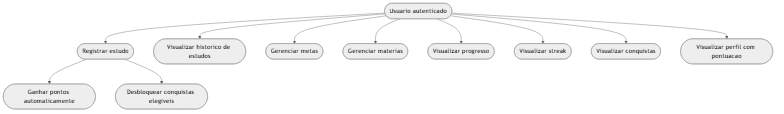
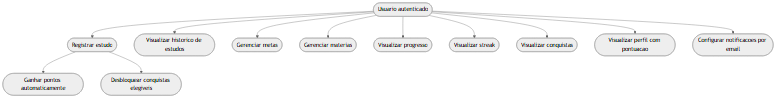
docs: atualizar documentacao e diagramas para estado atual

diff --git a/README.md b/README.md
@@ -1,1 +1,38 @@
-# xp-diario
+# XP Diario
+
+Aplicacao web para organizar estudos, registrar atividades e acompanhar evolucao com metas, streak, pontuacao e conquistas.
+
+## Estrutura
+
+- `backend/`: API Express + PostgreSQL
+- `frontend/`: telas HTML/CSS/JS servidas pelo backend
+- `docs/`: documentacao funcional e diagramas
+
+## Como executar
+
+1. Configure `backend/.env`.
+2. Instale dependencias:
+   - `cd backend`
+   - `npm install`
+3. Inicie a API:
+   - `npm start`
+4. Acesse:
+   - `http://localhost:3000`
+
+## Endpoints principais
+
+- `POST /api/login`
+- `POST /api/cadastro`
+- `GET|POST|PUT|DELETE /api/materias` (sem autenticacao no estado atual)
+- `GET|POST|PUT|DELETE /api/metas` (autenticado)
+- `GET|POST /api/atividades` (autenticado)
+- `GET /api/streak` (autenticado)
+- `GET /api/progresso` (autenticado)
+- `GET /api/conquistas` (autenticado)
+- `GET /api/perfil` (autenticado)
+- `GET|PUT /api/notificacoes` (autenticado)
+
+## Observacoes de vigencia
+
+- A referencia oficial de regras de negocio esta em `docs/`.
+- Arquivos PNG/JPEG em `docs/` podem ficar defasados em relacao ao texto Markdown/Mermaid.

diff --git a/docs/ARTEFATOS_VISUAIS_ATUALIZADOS.md b/docs/ARTEFATOS_VISUAIS_ATUALIZADOS.md
@@ -4,6 +4,7 @@ Este arquivo consolida o estado real do codigo backend apos as historias de:
 
 - conquistas automaticas por usuario
 - pontuacao acumulativa por estudo
+- notificacoes de lembrete por email
 
 ## DER vigente (texto fonte)
 
@@ -57,9 +58,20 @@ erDiagram
         TIMESTAMP uc_desbloqueado_em
     }
 
+    NOTIFICACOES_CONFIG {
+        INT nc_id PK
+        INT nc_usuario_id FK
+        BOOLEAN nc_ativo
+        TIME nc_horario
+        VARCHAR nc_fuso_horario
+        DATE nc_ultimo_envio
+        TIMESTAMP nc_atualizado_em
+    }
+
     USUARIOS ||--o{ META : possui
     USUARIOS ||--o{ ATIVIDADE : registra
     USUARIOS ||--o{ USUARIO_CONQUISTA : desbloqueia
+    USUARIOS ||--o| NOTIFICACOES_CONFIG : configura
     CONQUISTA ||--o{ USUARIO_CONQUISTA : referencia
     DISCIPLINA ||--o{ META : organiza
     DISCIPLINA ||--o{ ATIVIDADE : recebe

diff --git a/docs/DIAGRAMAS_TELAS_USUARIO_FINAL.md b/docs/DIAGRAMAS_TELAS_USUARIO_FINAL.md
@@ -15,6 +15,7 @@ flowchart TD
     G --> I[Atualizar pontos]
     G --> J[Recalcular conquistas]
     F --> K[Consultar perfil]
+    F --> L[Configurar notificacoes de lembrete]
 ```
 
 ## Diagrama 2 - Sequencia do registro de estudo
@@ -41,4 +42,14 @@ flowchart LR
     A[GET /api/perfil] --> B[Validar JWT]
     B --> C[Buscar usuario]
     C --> D[Retornar us_pontos_total]
+```
+
+## Diagrama 4 - Consulta de streak (estado atual da resposta)
+
+```mermaid
+flowchart LR
+    A[GET /api/streak] --> B[Validar JWT]
+    B --> C[Buscar datas em atividade por usuario]
+    C --> D[Calcular streak atual]
+    D --> E[Retornar streak + total_registros + dias_registrados]
 ```

diff --git a/docs/SPRINT_TELAS_USUARIO_FINAL.md b/docs/SPRINT_TELAS_USUARIO_FINAL.md
@@ -12,6 +12,7 @@ O backend atual atende autenticacao, organizacao de estudo e motivacao com:
 6. Conquistas automaticas por usuario
 7. Pontuacao acumulativa por usuario
 8. Perfil com pontuacao total
+9. Configuracao de notificacoes por usuario (email)
 
 ## Endpoints principais (estado atual)
 
@@ -24,10 +25,12 @@ O backend atual atende autenticacao, organizacao de estudo e motivacao com:
 - `GET /api/progresso` (autenticado)
 - `GET /api/conquistas` (autenticado)
 - `GET /api/perfil` (autenticado)
+- `GET|PUT /api/notificacoes` (autenticado)
 
 ## Regras de negocio vigentes
 
-- Dados de estudo, metas, streak e progresso sao isolados por usuario autenticado
+- Dados de estudo, metas, streak, progresso, perfil e notificacoes sao isolados por usuario autenticado
+- Materias estao em escopo global no estado atual (sem isolamento por usuario e sem JWT)
 - Conquistas sao desbloqueadas automaticamente por criterio e apenas uma vez por usuario
 - Pontuacao e proporcional ao tempo registrado (`1 ponto por minuto`)
 - Pontuacao e acumulativa e fica disponivel no perfil